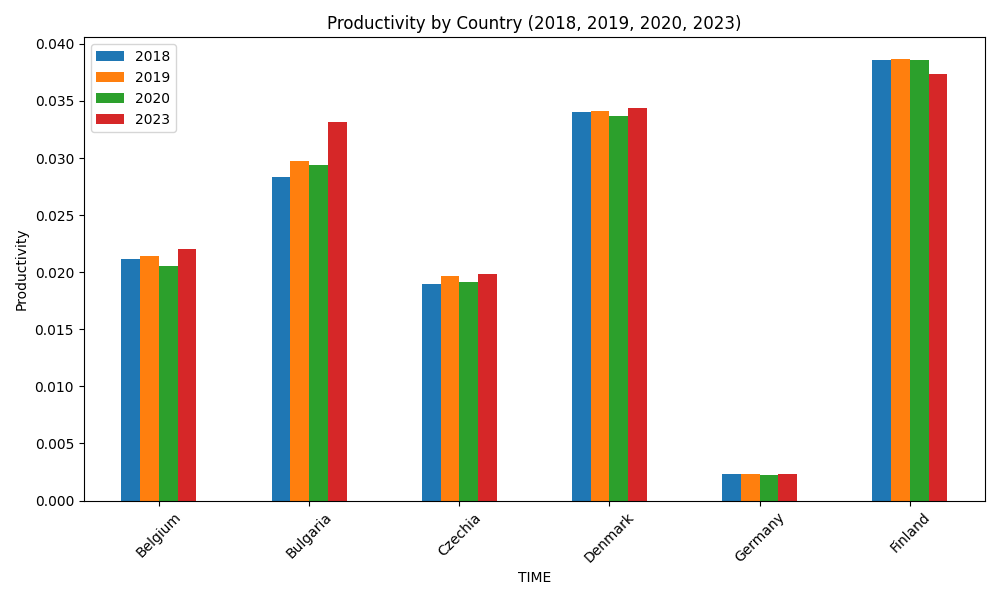
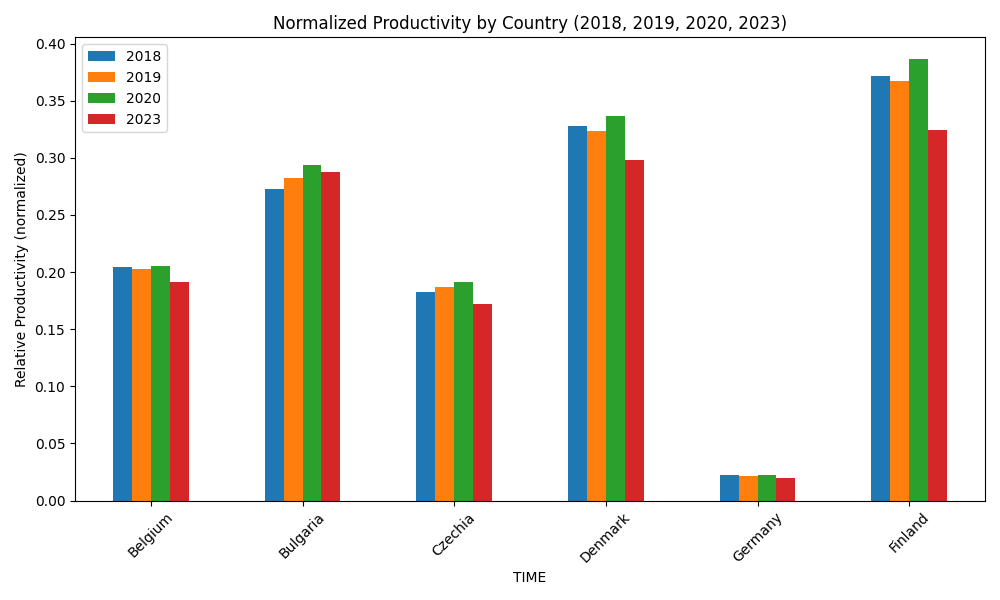
Add new outputs

diff --git a/README.md b/README.md
@@ -18,14 +18,16 @@ wanted_years = ["2018", "2019","2020","2023"]
 *brower.py produces* 
 
 ```
------------------ PRODUCTIVITY ---------------------------
+----------------- PRODUCTIVITY (normalized) ---------------------------
         TIME      2018      2019      2020      2023
-7    Belgium  0.021175   0.02139  0.020512  0.022035
-8   Bulgaria  0.028311  0.029741  0.029359  0.033129
-9    Czechia  0.018969  0.019681  0.019131  0.019848
-10   Denmark   0.03401  0.034094   0.03366  0.034362
-11   Germany  0.002313  0.002308  0.002224  0.002302
-32   Finland  0.038588  0.038644   0.03861  0.037373
+7    Belgium  0.203974  0.203094  0.205124  0.191052
+8   Bulgaria  0.272719  0.282389  0.293588   0.28724
+9    Czechia  0.182733  0.186868  0.191306  0.172088
+10   Denmark  0.327621  0.323725  0.336604  0.297924
+11   Germany  0.022283  0.021912  0.022239   0.01996
+32   Finland  0.371715  0.366924    0.3861  0.324036
+
+
 ```
 
 
